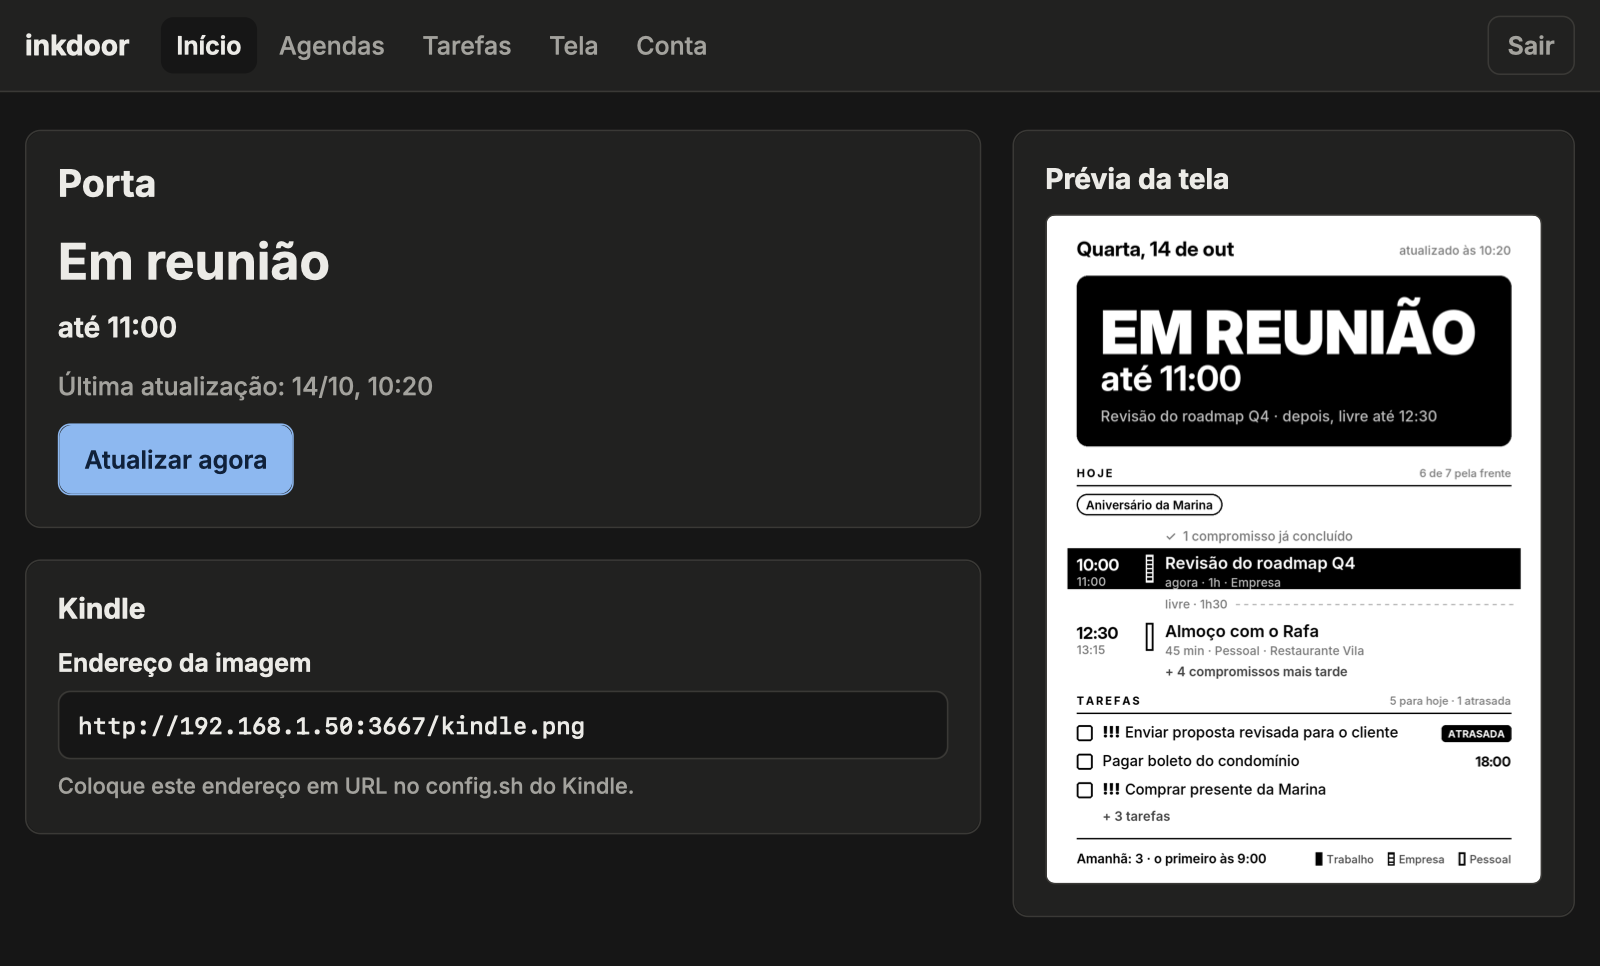
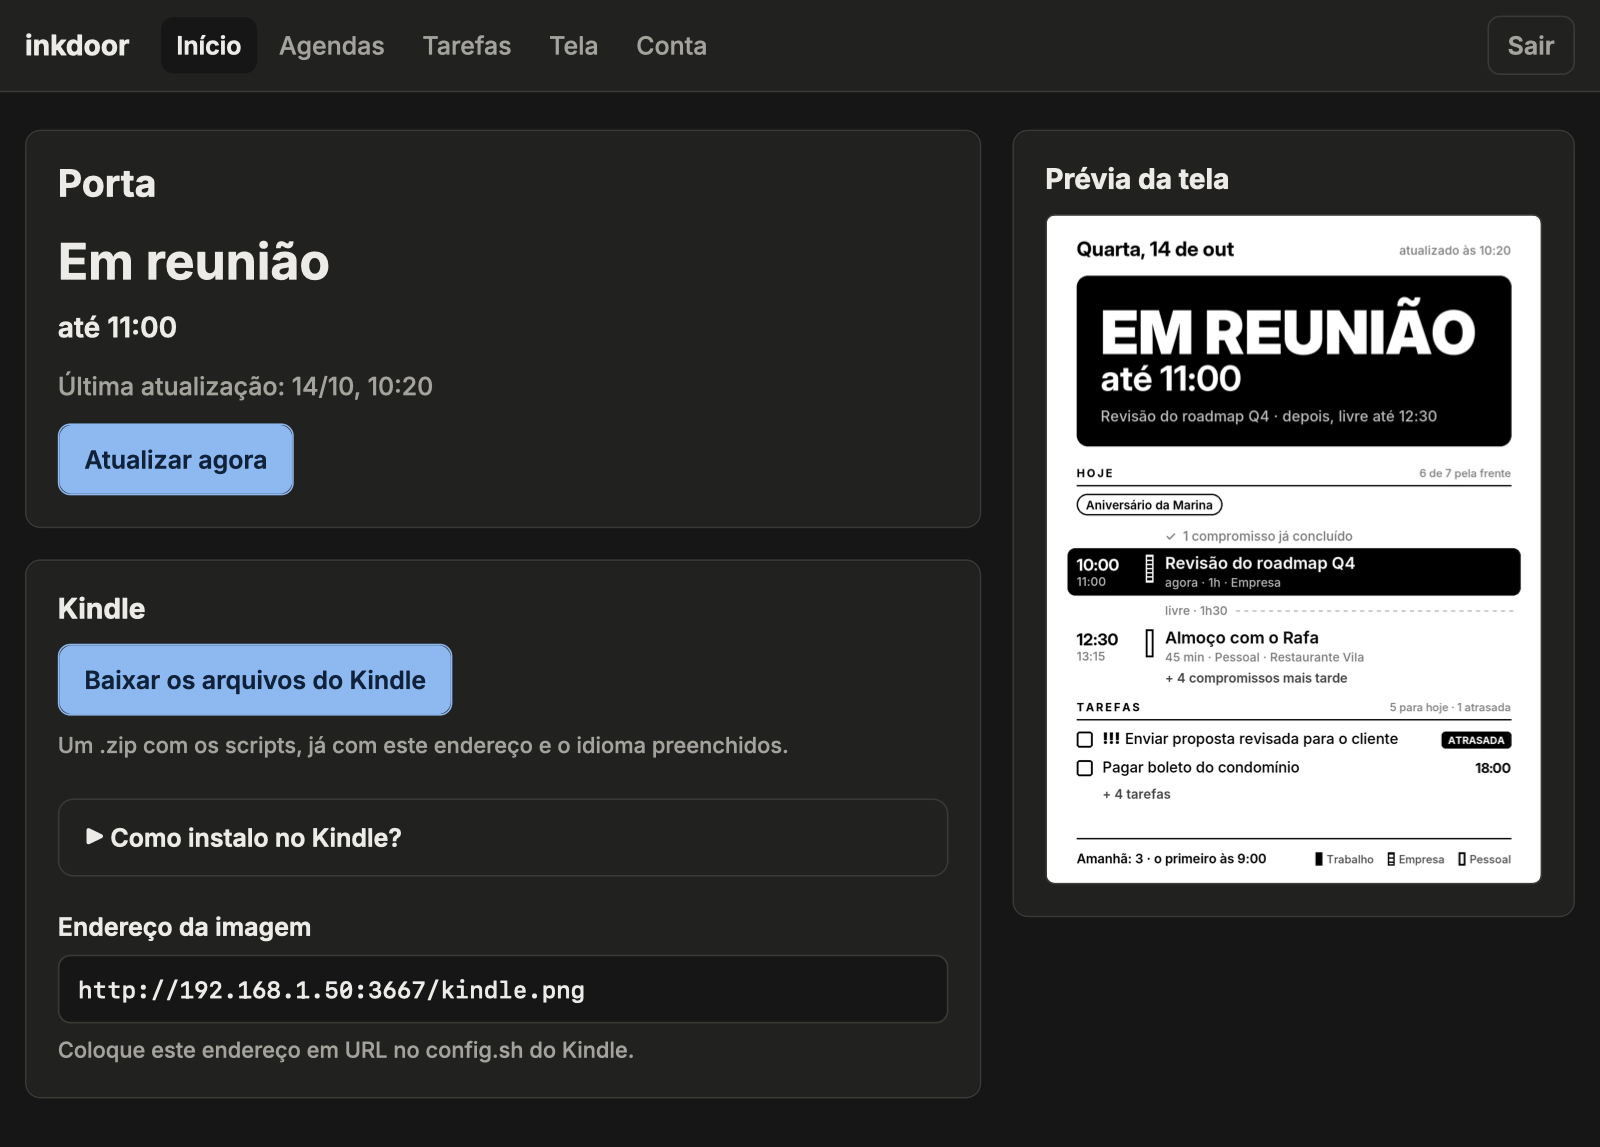
Add a script that regenerates the docs images
docs/img/ was made by hand: the README's screens image had no generator
and the admin screenshots came from a throwaway script, so any visual
change left them stale. scripts/docs_images.py now regenerates all of
them from the demo's fictional data:

- screens-<lang>.png: the demo at 10:20, 15:20 and 21:10 in Kindle-like
  bezels (same layout as before), now with the rounded current-event box;
- admin-<page>-<theme>-<lang>.png: Home and Calendars, light and dark,
  rendered by the real app with fictional links and captured with
  Quick Look on macOS or a headless Chromium-family browser elsewhere.

The Calendars screenshots come out identical to the old ones; Home now
shows the Kindle download and its step-by-step help. CONTRIBUTING.md
explains when and how to run it, and a test keeps the screens part
working.

Fixes #55

diff --git a/scripts/docs_images.py b/scripts/docs_images.py
@@ -1,0 +1,204 @@
+"""Regenerates every image in docs/img/ from the demo's fictional data.
+
+    python scripts/docs_images.py            # everything
+    python scripts/docs_images.py screens    # only screens-<lang>.png (no browser needed)
+    python scripts/docs_images.py admin      # only admin-<page>-<theme>-<lang>.png
+
+Run it from a clone with inkdoor installed (``pip install -e .``). Nothing is fetched: the door
+screens come from ``inkdoor.demo``, and the admin pages are rendered by the real app with
+fictional calendar links that are only ever shown masked.
+
+The admin screenshots need a browser engine. On macOS the built-in Quick Look (``qlmanage``) is
+used; elsewhere a headless Chromium-family browser (Chromium, Chrome, Edge or Brave on the PATH).
+Set INKDOOR_BROWSER to a browser's executable to choose one.
+"""
+from __future__ import annotations
+
+import os
+import re
+import shutil
+import subprocess
+import sys
+import tempfile
+from pathlib import Path
+
+from PIL import Image, ImageChops, ImageDraw
+
+from inkdoor import config_edit, demo, net
+from inkdoor.config import with_defaults
+from inkdoor.render import H, W, compute_status, render, translator_for
+from inkdoor.state import IMAGE_NAME, RenderInfo, ServerState
+from inkdoor.web import auth, create_app
+
+ROOT = Path(__file__).resolve().parent.parent
+OUT = ROOT / "docs" / "img"
+LANGUAGES = ("en-US", "pt-BR")
+
+# screens-<lang>.png: three door screens in Kindle-like bezels
+SCREEN_TIMES = ("10:20", "15:20", "21:10")    # in a meeting, free, after hours
+BEZEL, BEZEL_COLOR, RADIUS, GAP = 28, (38, 38, 40), 28, 40
+
+# admin-<page>-<theme>-<lang>.png
+ADMIN_PAGES = {"home": "/", "calendars": "/calendars"}
+FAKE_ADDRESS = "192.168.1.50"                 # fictional LAN address shown on the pages
+VIEWPORT = (800, 1100)                        # CSS pixels, rendered at 2x
+
+
+# --------------------------------------------------------------------------- door screens
+
+def screens(language: str) -> Image.Image:
+    cfg = demo.demo_config(language)
+    sw, sh = W // 2, H // 2
+    pw, ph = sw + 2 * BEZEL, sh + 2 * BEZEL
+    sheet = Image.new("RGB", (len(SCREEN_TIMES) * pw + (len(SCREEN_TIMES) - 1) * GAP, ph), "white")
+    draw = ImageDraw.Draw(sheet)
+    for i, hour in enumerate(SCREEN_TIMES):
+        x = i * (pw + GAP)
+        draw.rounded_rectangle((x, 0, x + pw - 1, ph - 1), RADIUS, fill=BEZEL_COLOR)
+        screen = render(demo.demo_snapshot(cfg, hour), cfg).resize((sw, sh), Image.LANCZOS)
+        sheet.paste(screen.convert("RGB"), (x + BEZEL, BEZEL))
+    return sheet
+
+
+# --------------------------------------------------------------------------- admin pages
+
+def _admin_pages(language: str, folder: Path) -> list[str]:
+    """Writes static copies of the admin pages (light and dark) into ``folder``; returns names."""
+    content = demo.CONTENT[language]
+    names = content["calendars"]
+    calendars = [
+        {"name": names[0], "style": "solid", "busy": True,
+         "url": "https://calendar.example/ical/fictional-work/basic.ics"},
+        {"name": names[1], "style": "striped", "busy": True,
+         "url": "https://outlook.example/owa/calendar/fictional/calendar.ics"},
+        {"name": names[2], "style": "outline", "busy": True,
+         "status_label": content["personal_label"],
+         "url": "https://calendar.example/ical/fictional-personal/basic.ics"},
+    ]
+    work = Path(tempfile.mkdtemp())
+    config_path = work / "config.toml"
+    config_path.write_text(config_edit.dumps({
+        "display": {"language": language, "timezone": "America/Sao_Paulo"},
+        "admin": {"enabled": True},
+        "calendar": calendars,
+        "tasks": {"name": "TickTick", "url": "https://tasks.example/pub/fictional/basic.ics"},
+    }), encoding="utf-8")
+    password = "docs-images-only-1"
+    auth.set_password(auth.password_path(str(config_path)), password)
+
+    cfg = with_defaults({"display": {"language": language, "timezone": "America/Sao_Paulo"},
+                         "admin": {"enabled": True}, "calendar": calendars})
+    state = ServerState(str(config_path), str(work), None, cfg, None, True)
+    demo_cfg = demo.demo_config(language)
+    snap = demo.demo_snapshot(demo_cfg, "10:20")
+    render(snap, demo_cfg).save(work / IMAGE_NAME)
+    status = compute_status(snap, demo_cfg, translator_for(demo_cfg))
+    state.last_render = RenderInfo(snap.now, status.word, status.headline, [])
+    net.lan_address = lambda: FAKE_ADDRESS
+
+    client = create_app(state).test_client()
+    base = f"http://{FAKE_ADDRESS}:3667"
+    login = client.get("/login", base_url=base).get_data(as_text=True)
+    token = re.search(r'name="csrf" value="([^"]+)"', login).group(1)
+    assert client.post("/login", base_url=base,
+                       data={"csrf": token, "password": password}).status_code == 302
+
+    web = Path(sys.modules["inkdoor.web"].__file__).parent
+    shutil.copytree(web / "static", folder / "static")
+    shutil.copytree(web.parent / "fonts", folder / "static" / "fonts")
+    shutil.copy(work / IMAGE_NAME, folder / "kindle.png")
+    # the stylesheet follows prefers-color-scheme; each copy pins one theme
+    css = (folder / "static" / "admin.css").read_text(encoding="utf-8")
+    start = css.index("@media (prefers-color-scheme: dark) {")
+    end = css.index("\n}\n", css.index("  }\n", start)) + 3
+    dark_vars = css[start:end].split("{", 1)[1].rsplit("}", 1)[0]
+    (folder / "static" / "light.css").write_text(css[:start] + css[end:], encoding="utf-8")
+    dark = css[:start] + css[end:] + dark_vars + "\n:root { color-scheme: dark; }\n"
+    (folder / "static" / "dark.css").write_text(dark, encoding="utf-8")
+
+    pages = []
+    for page, path in ADMIN_PAGES.items():
+        html = client.get(path, base_url=base).get_data(as_text=True)
+        html = re.sub(r"<script [^>]*admin\.js[^>]*></script>", "", html)
+        html = re.sub(r'src="/kindle\.png\?t=[^"]*"', 'src="kindle.png"', html)
+        for theme in ("light", "dark"):
+            name = f"{page}-{theme}"
+            (folder / f"{name}.html").write_text(
+                html.replace('href="/static/admin.css"', f'href="static/{theme}.css"')
+                    .replace('content="light dark"', f'content="{theme}"'), encoding="utf-8")
+            pages.append(name)
+    shutil.rmtree(work)
+    return pages
+
+
+def _chromium() -> str | None:
+    chosen = os.environ.get("INKDOOR_BROWSER")
+    if chosen:
+        return chosen
+    for name in ("chromium", "chromium-browser", "google-chrome", "google-chrome-stable",
+                 "microsoft-edge", "brave-browser"):
+        if shutil.which(name):
+            return shutil.which(name)
+    return None
+
+
+def _screenshot(html: Path, png: Path) -> None:
+    browser = _chromium()
+    if browser:
+        width, height = VIEWPORT
+        profile = tempfile.mkdtemp()
+        subprocess.run([browser, "--headless=new", "--disable-gpu", "--hide-scrollbars",
+                        "--no-first-run", f"--user-data-dir={profile}",
+                        "--force-device-scale-factor=2", f"--window-size={width},{height}",
+                        f"--screenshot={png}", html.as_uri()],
+                       check=True, capture_output=True, timeout=120)
+        shutil.rmtree(profile, ignore_errors=True)
+    elif sys.platform == "darwin" and shutil.which("qlmanage"):
+        subprocess.run(["qlmanage", "-t", "-s", str(VIEWPORT[0] * 2), "-o", str(png.parent),
+                        str(html)], check=True, capture_output=True, timeout=120)
+        (png.parent / f"{html.name}.png").replace(png)
+    else:
+        raise SystemExit("No browser engine found: set INKDOOR_BROWSER to a Chromium-family "
+                         "browser (or run this on macOS, which has qlmanage).")
+
+
+def _trim(image: Image.Image, margin: int = 48) -> Image.Image:
+    """Cuts the empty page background below the content, keeping a small margin."""
+    image = image.convert("RGB")
+    background = Image.new("RGB", image.size, image.getpixel((image.width - 2, image.height - 2)))
+    box = ImageChops.difference(image, background).getbbox()
+    return image.crop((0, 0, image.width, min(image.height, box[3] + margin))) if box else image
+
+
+def admin(language: str) -> dict[str, Image.Image]:
+    with tempfile.TemporaryDirectory() as tmp:
+        folder = Path(tmp)
+        shots = {}
+        for name in _admin_pages(language, folder):
+            png = folder / f"{name}.png"
+            _screenshot(folder / f"{name}.html", png)
+            page, theme = name.split("-")
+            shots[f"admin-{page}-{theme}-{language}.png"] = _trim(Image.open(png))
+        return shots
+
+
+# --------------------------------------------------------------------------- main
+
+def main(argv: list[str]) -> None:
+    which = set(argv) or {"screens", "admin"}
+    unknown = which - {"screens", "admin"}
+    if unknown:
+        raise SystemExit(f"unknown target: {', '.join(sorted(unknown))} (use screens or admin)")
+    OUT.mkdir(parents=True, exist_ok=True)
+    for language in LANGUAGES:
+        if "screens" in which:
+            screens(language).save(OUT / f"screens-{language}.png", optimize=True)
+            print(f"docs/img/screens-{language}.png")
+        if "admin" in which:
+            for name, image in admin(language).items():
+                image.save(OUT / name, optimize=True)
+                print(f"docs/img/{name}")
+
+
+if __name__ == "__main__":
+    main(sys.argv[1:])

diff --git a/tests/test_render.py b/tests/test_render.py
@@ -210,3 +210,16 @@ def test_legend_leaves_out_calendars_without_a_link(monkeypatch, language, link)
     render(demo_snapshot(cfg, "21:10"), cfg)                  # after hours: tomorrow's list
     assert names[0] in drawn and names[2] in drawn            # the legend draws each name alone
     assert names[1] not in drawn
+
+
+def test_docs_images_script_draws_the_screens():
+    """scripts/docs_images.py keeps working (the admin part needs a browser, so it is not run)."""
+    import importlib.util
+    from pathlib import Path
+    path = Path(__file__).resolve().parent.parent / "scripts" / "docs_images.py"
+    spec = importlib.util.spec_from_file_location("docs_images", path)
+    module = importlib.util.module_from_spec(spec)
+    spec.loader.exec_module(module)
+    for language in ("en-US", "pt-BR"):
+        sheet = module.screens(language)
+        assert sheet.size == (3 * (W // 2 + 56) + 2 * 40, H // 2 + 56)

diff --git a/CONTRIBUTING.md b/CONTRIBUTING.md
@@ -8,6 +8,7 @@ a pull request.
 - [Development setup](#development-setup)
 - [Project layout](#project-layout)
 - [Making a change](#making-a-change)
+- [Docs images](#docs-images)
 - [Translations](#translations)
 - [Testing on real hardware](#testing-on-real-hardware)
 
@@ -85,6 +86,7 @@ kindle/           POSIX sh scripts that run on the Kindle (BusyBox)
 deploy/           systemd unit, Debian/Ubuntu installer, Proxmox container script
 tests/            pytest suite with fictional calendars in tests/fixtures/
 docs/             user docs, each with a pt-BR translation in docs/pt-BR/
+scripts/          docs_images.py regenerates docs/img/ from the demo
 ```
 
 ## Making a change
@@ -98,6 +100,8 @@ docs/             user docs, each with a pt-BR translation in docs/pt-BR/
 4. **Anything visual?** Render the demo in both languages at a few times (for example 7:30, 10:20,
    15:20, 16:50 and 21:10) and look at the images; Portuguese strings are longer and are the
    usual cause of overflow. Keep strokes at least 3 px wide so they survive e-ink.
+   If the change shows up in the README's images, regenerate them
+   (see [Docs images](#docs-images)).
 5. **Anything user-visible?** Update the docs in both languages: `README.md` and
    `README.pt-BR.md`, and each file in `docs/` with its twin in `docs/pt-BR/`.
 6. **Open a pull request** with the template: what changes and why, `Fixes #N` (or `Refs #N`),
@@ -117,6 +121,20 @@ way. Style suggestions alone do not hold a pull request back.
 update. They must never overwrite `/etc/inkdoor/config.toml` or `admin-password`. If you touch
 the systemd sandbox in `inkdoor.service`, check that it still starts in an unprivileged Proxmox
 container with nesting.
+
+## Docs images
+
+Every image in `docs/img/` comes from the demo's fictional data, through one script:
+
+```sh
+python scripts/docs_images.py           # everything
+python scripts/docs_images.py screens   # only the door screens (no browser needed)
+python scripts/docs_images.py admin     # only the admin screenshots, light and dark
+```
+
+The admin screenshots need a browser engine: on macOS the built-in Quick Look (`qlmanage`) is
+used; elsewhere a headless Chromium-family browser on the `PATH`, or the one named in
+`INKDOOR_BROWSER`. Commit the regenerated images with the change that made them stale.
 
 ## Translations
 
